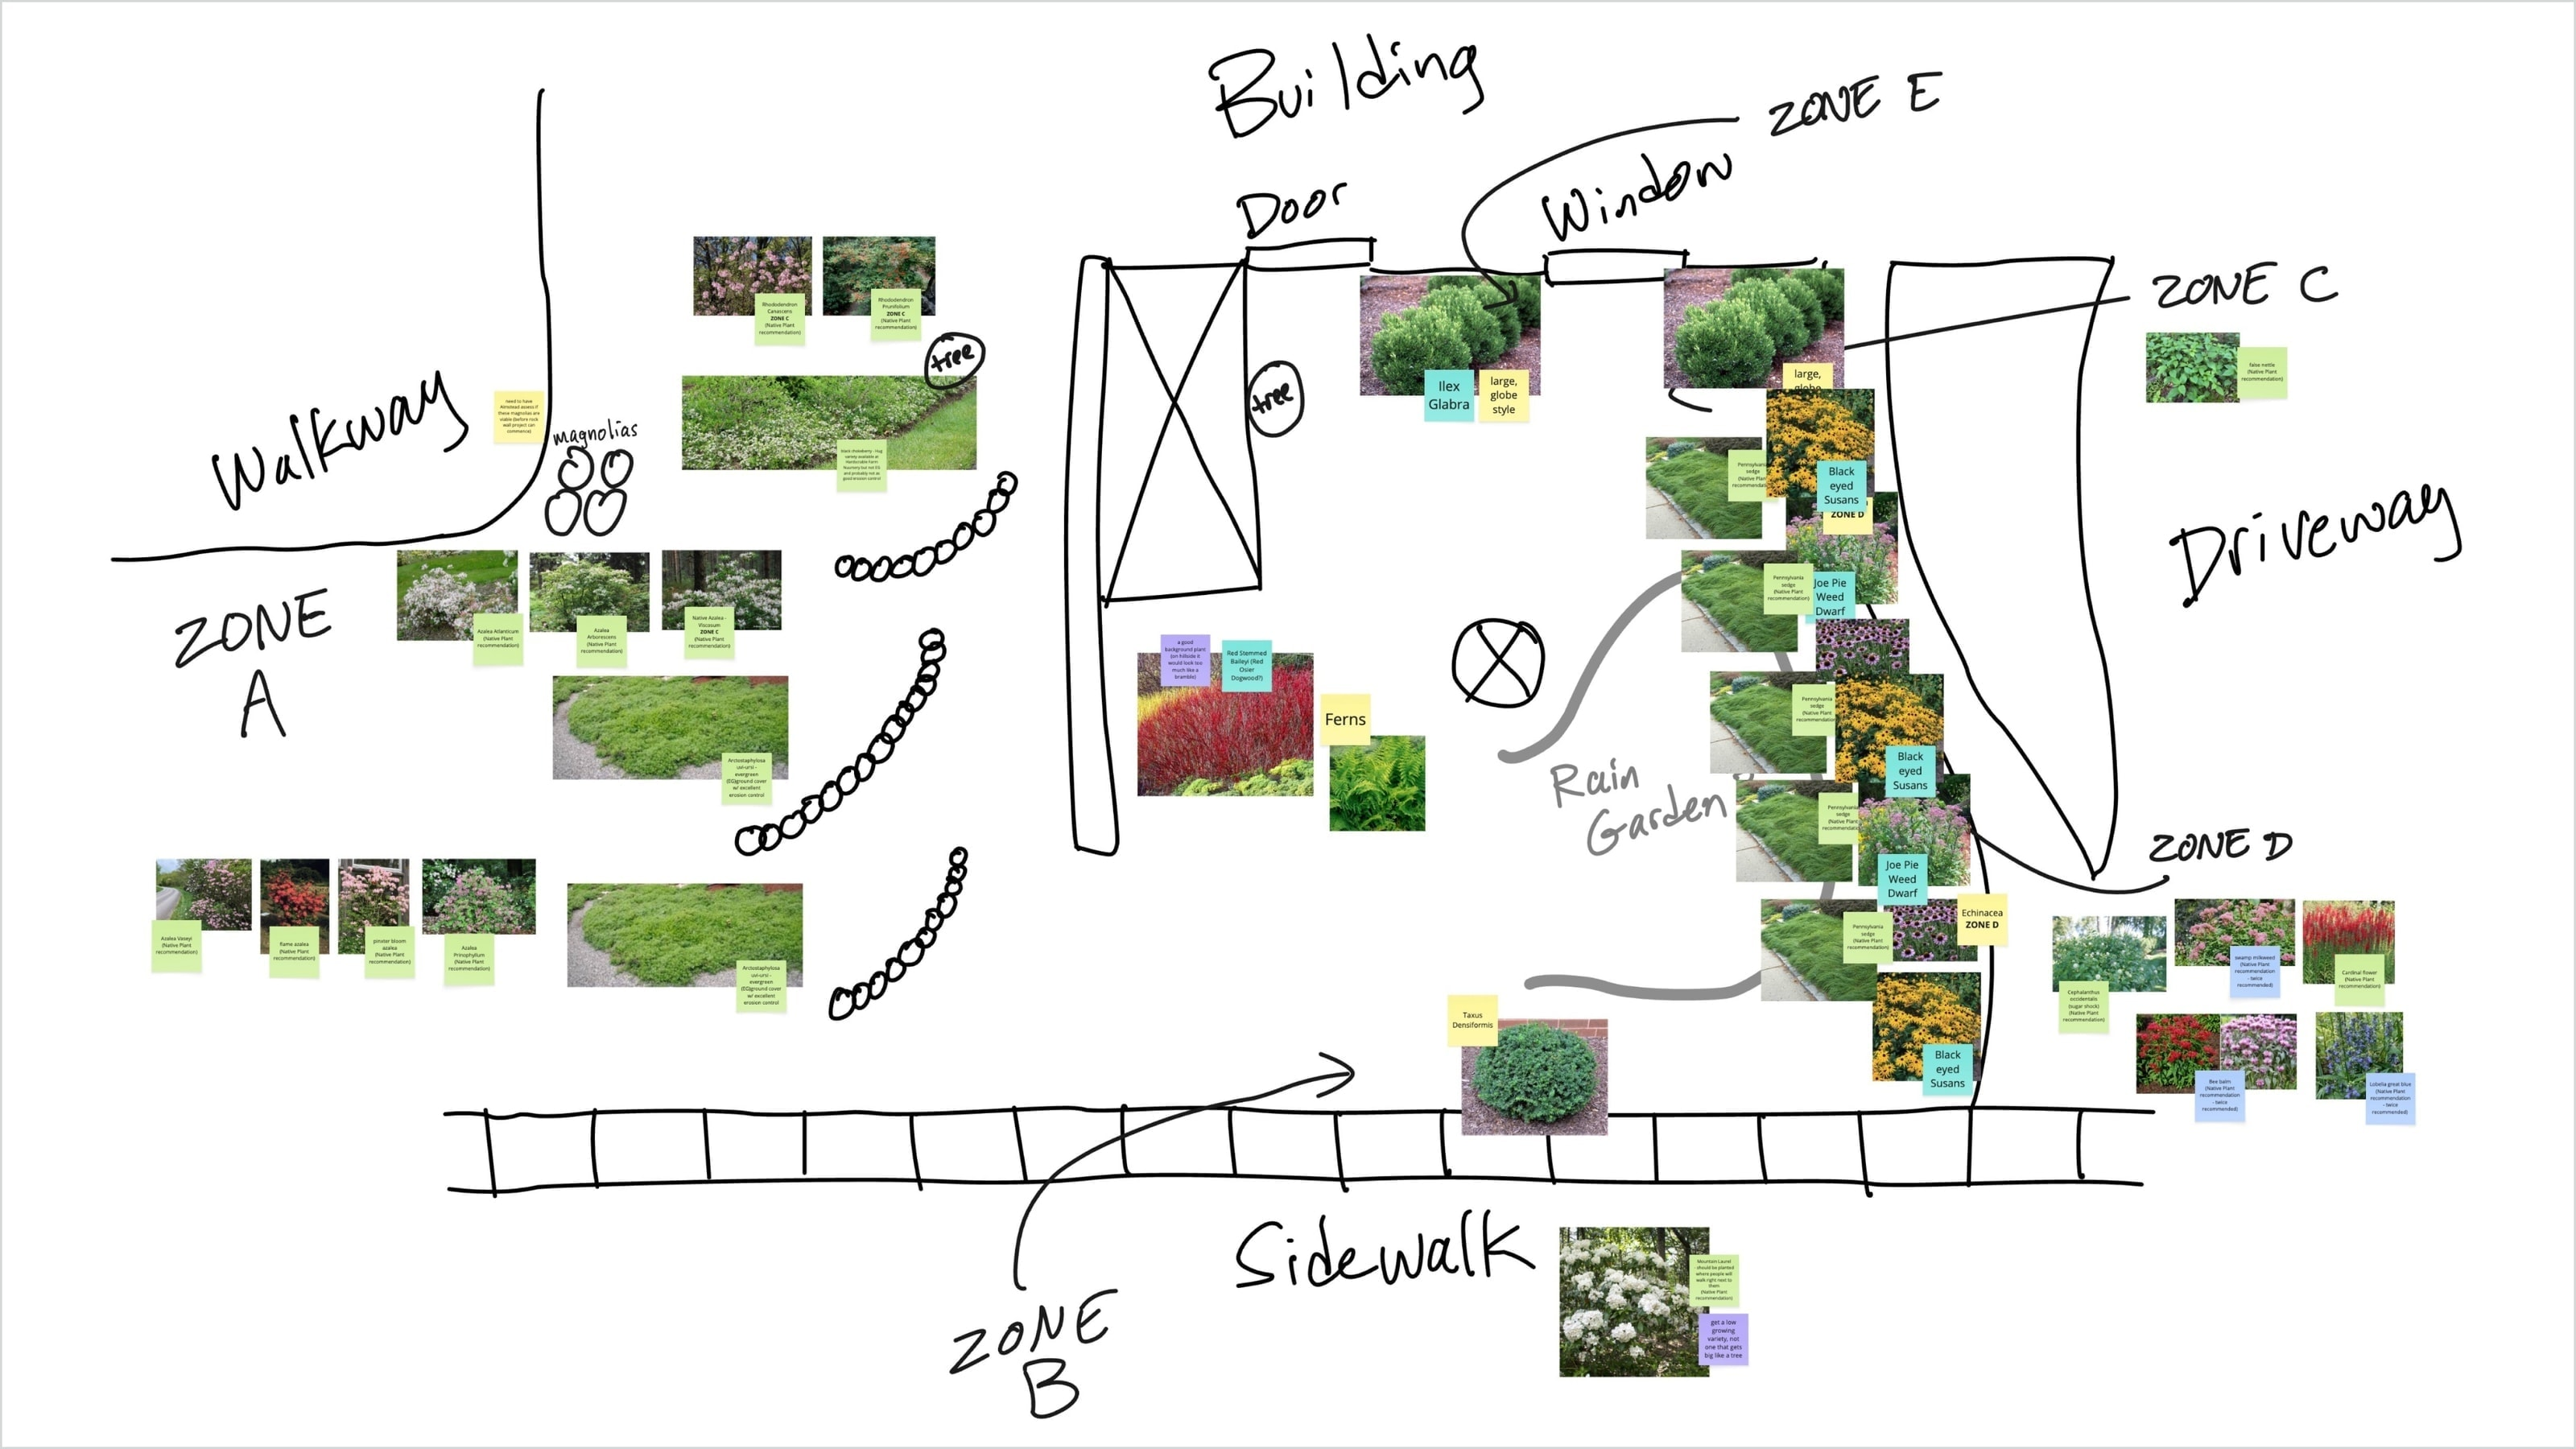
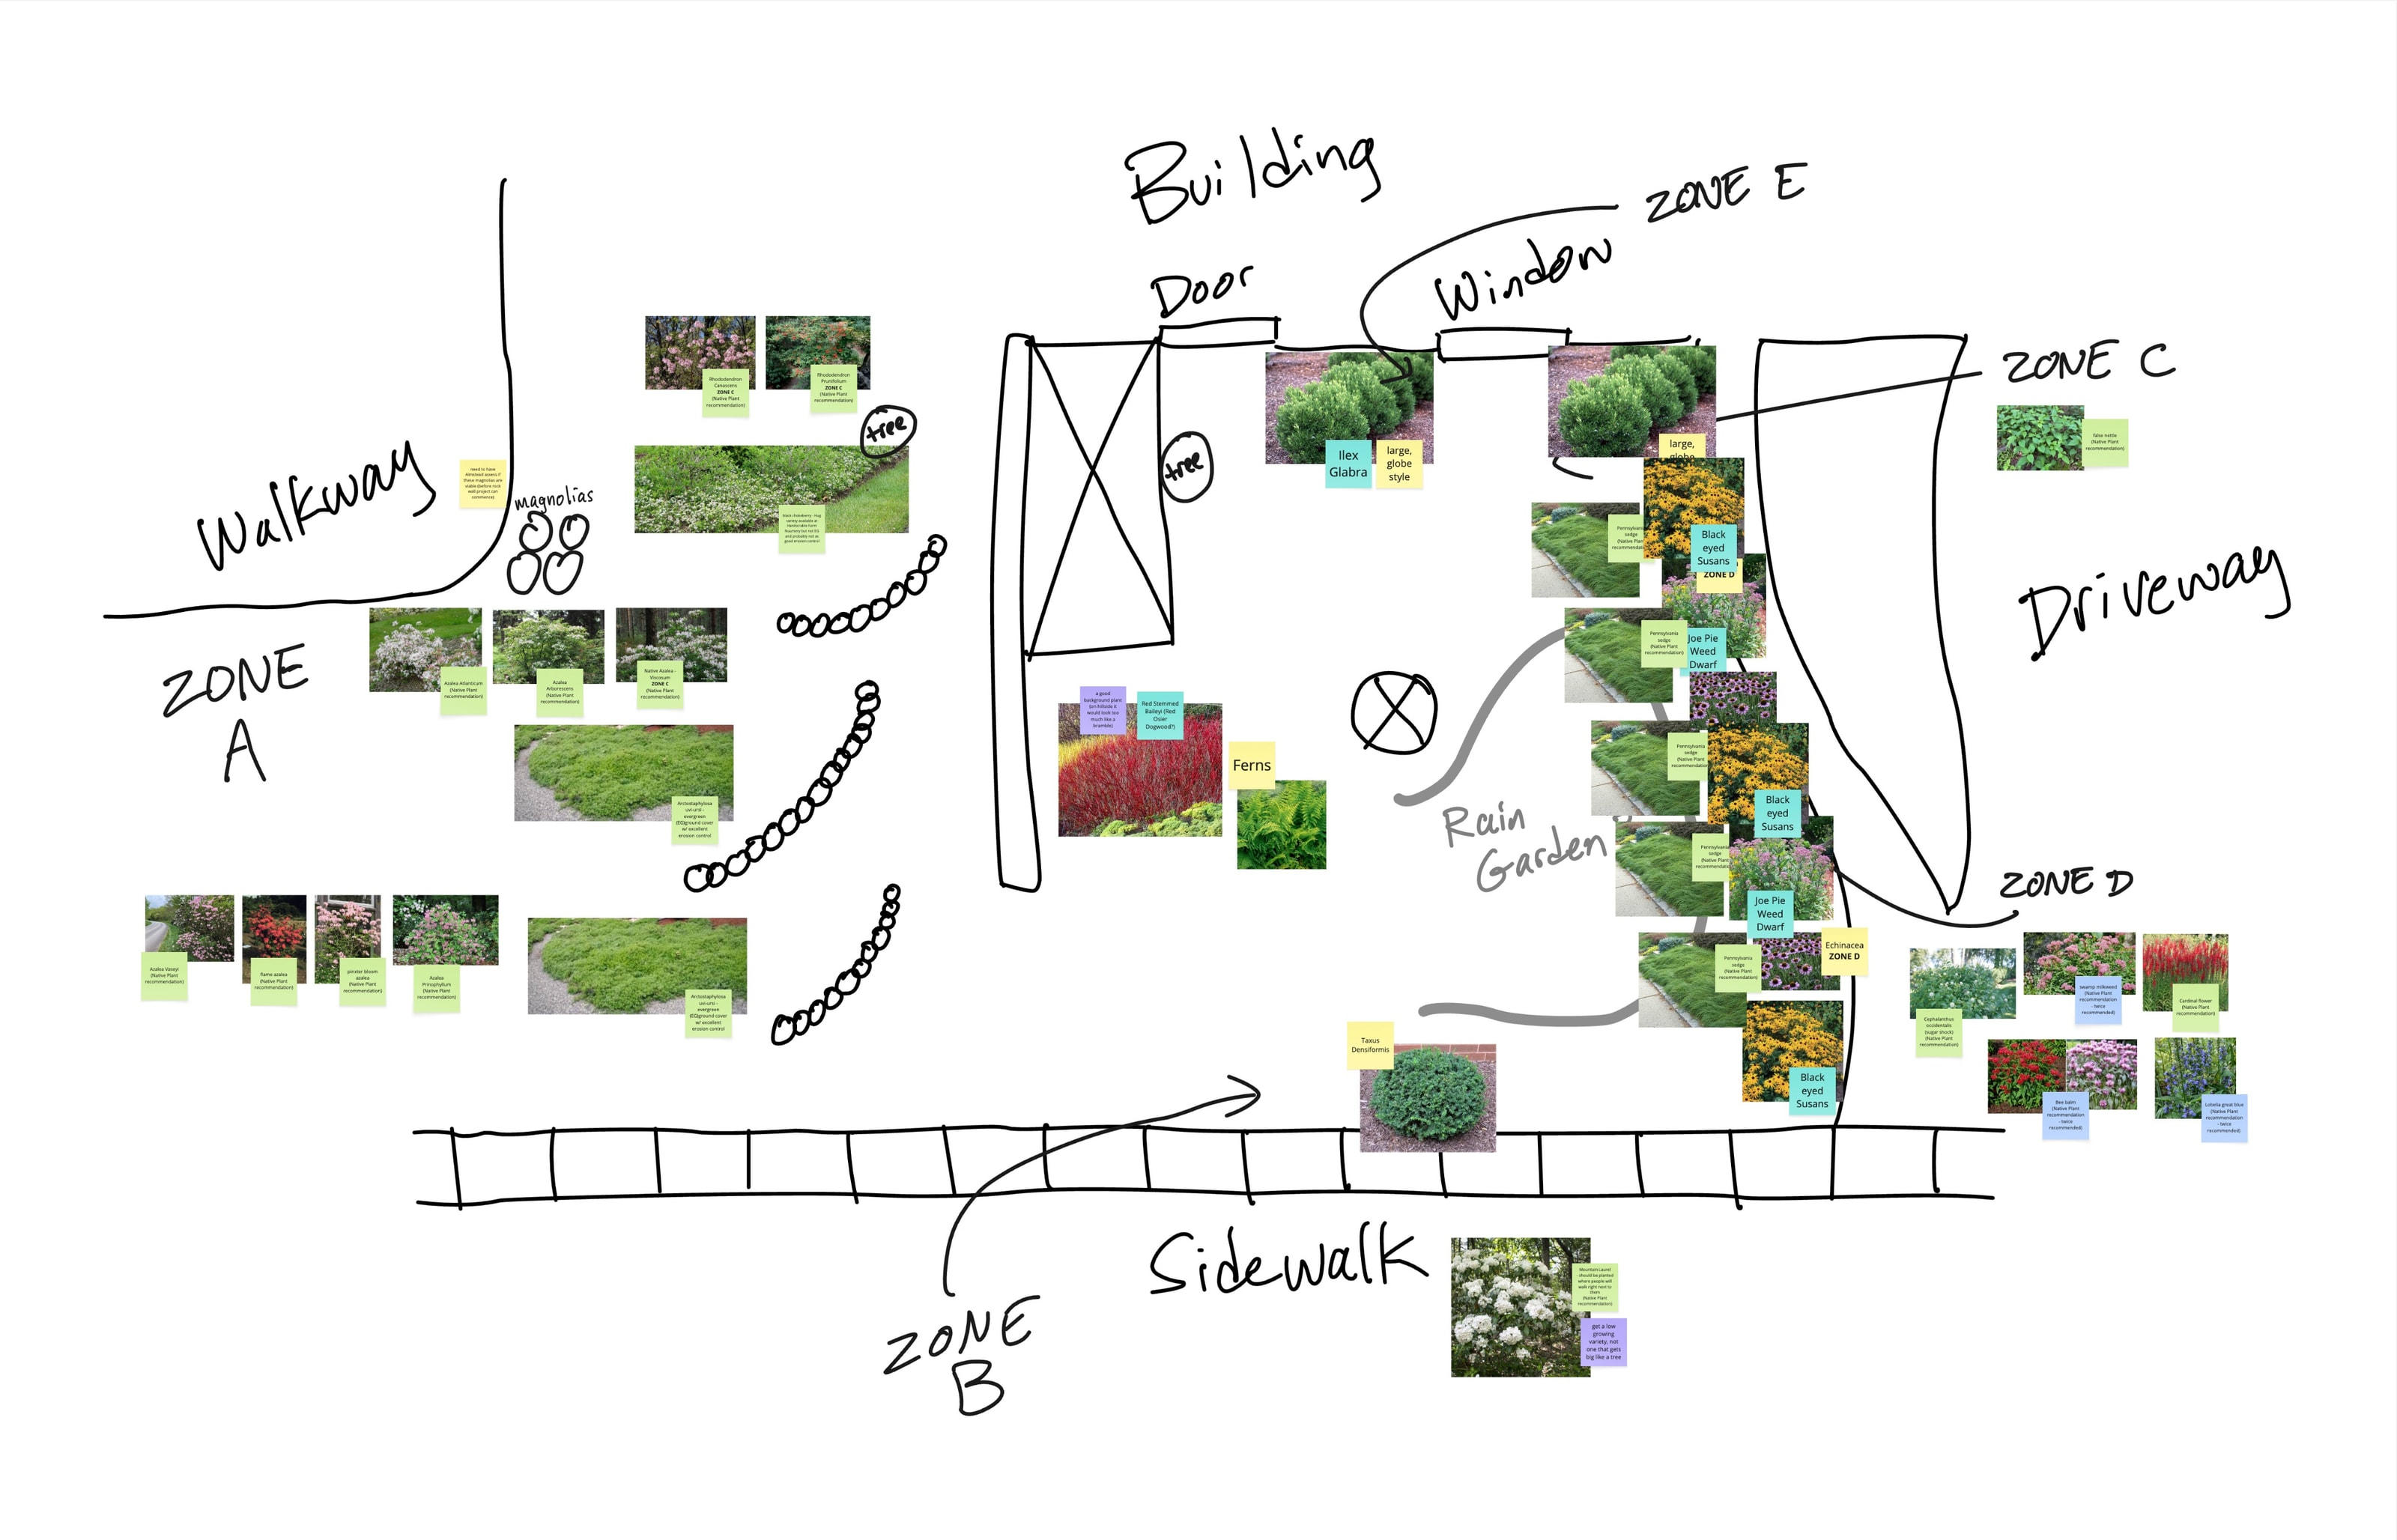
Fix Burton borders.

diff --git a/src/data/image-assets.ts b/src/data/image-assets.ts
@@ -108,11 +108,11 @@ export const imageAssets: Record<string, ImageAsset> = {
   },
   "/images/burton-model-3d-isometric.png": {
     src: "/images/burton-model-3d-isometric.png",
[2 lines of base64/hex data omitted]
   },
   "/images/burton-plan-2d.png": {
     src: "/images/burton-plan-2d.png",
[2 lines of base64/hex data omitted]
   },
   "/images/burton-render-spatial.png": {
     src: "/images/burton-render-spatial.png",
@@ -136,11 +136,11 @@ export const imageAssets: Record<string, ImageAsset> = {
   },
   "/images/burton-section-03-ideation-workshop.jpg": {
     src: "/images/burton-section-03-ideation-workshop.jpg",
[2 lines of base64/hex data omitted]
   },
   "/images/burton-section-03-planting-density.png": {
     src: "/images/burton-section-03-planting-density.png",
[2 lines of base64/hex data omitted]
   },
   "/images/burton-section-04-drainage-pipe.jpg": {
     src: "/images/burton-section-04-drainage-pipe.jpg",